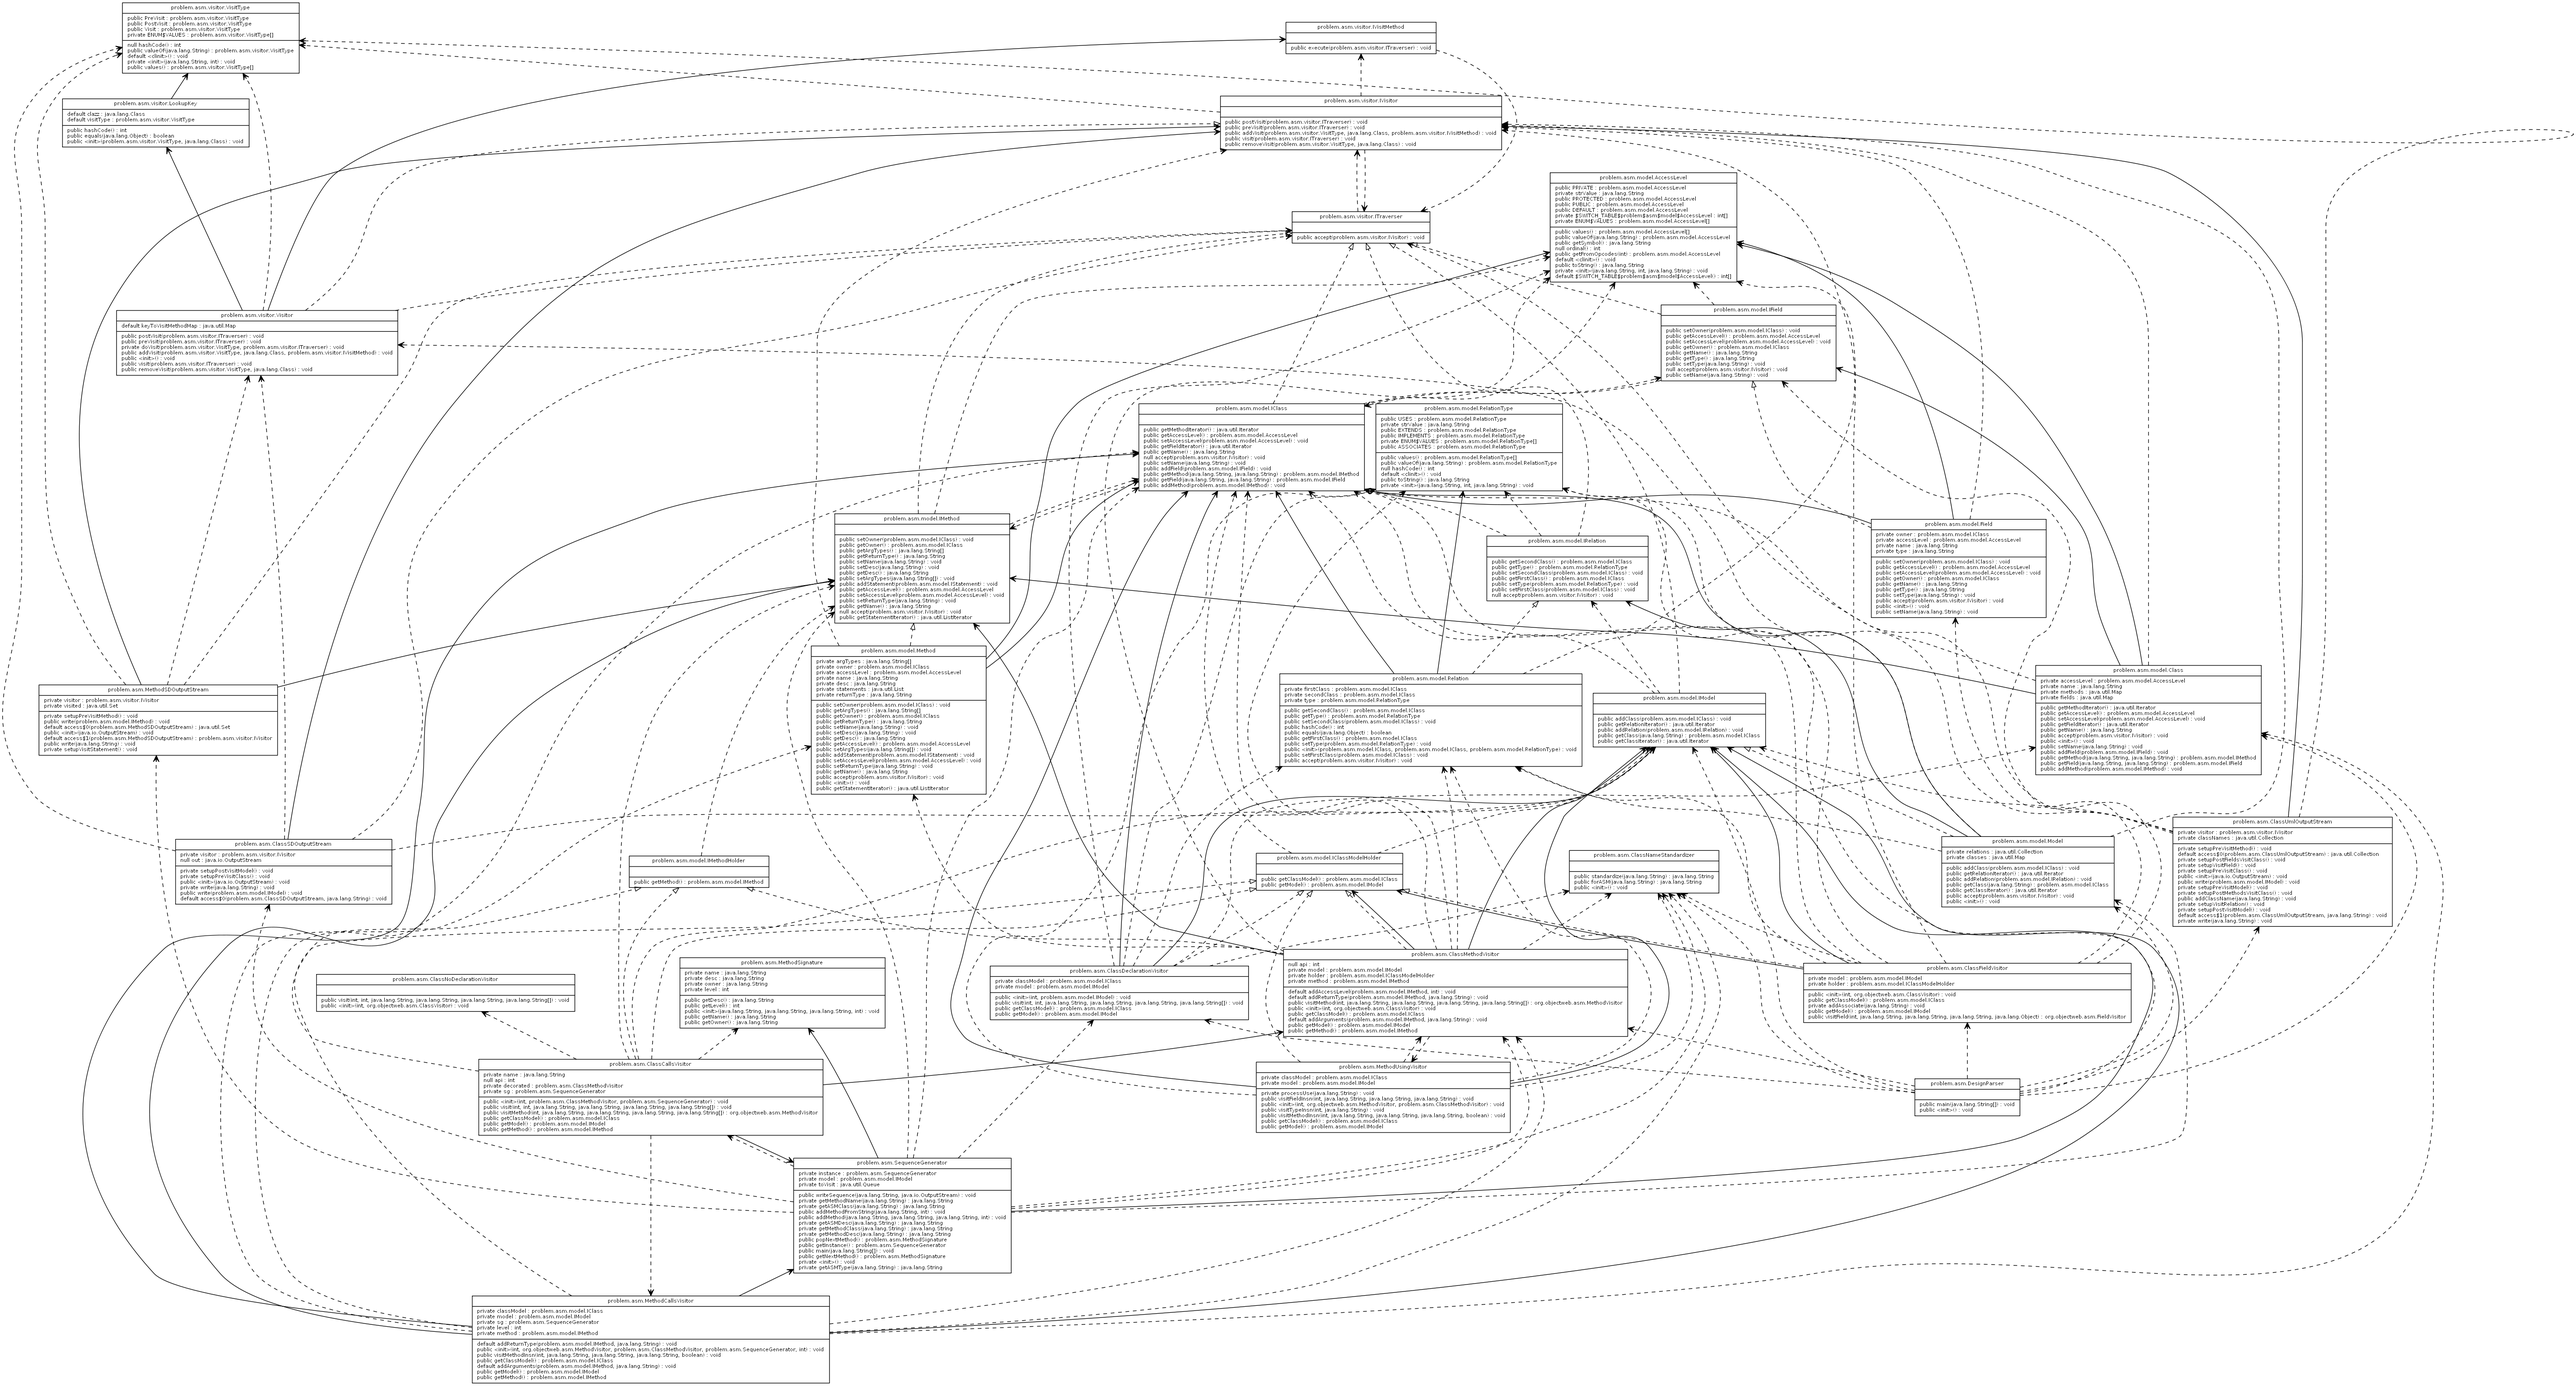
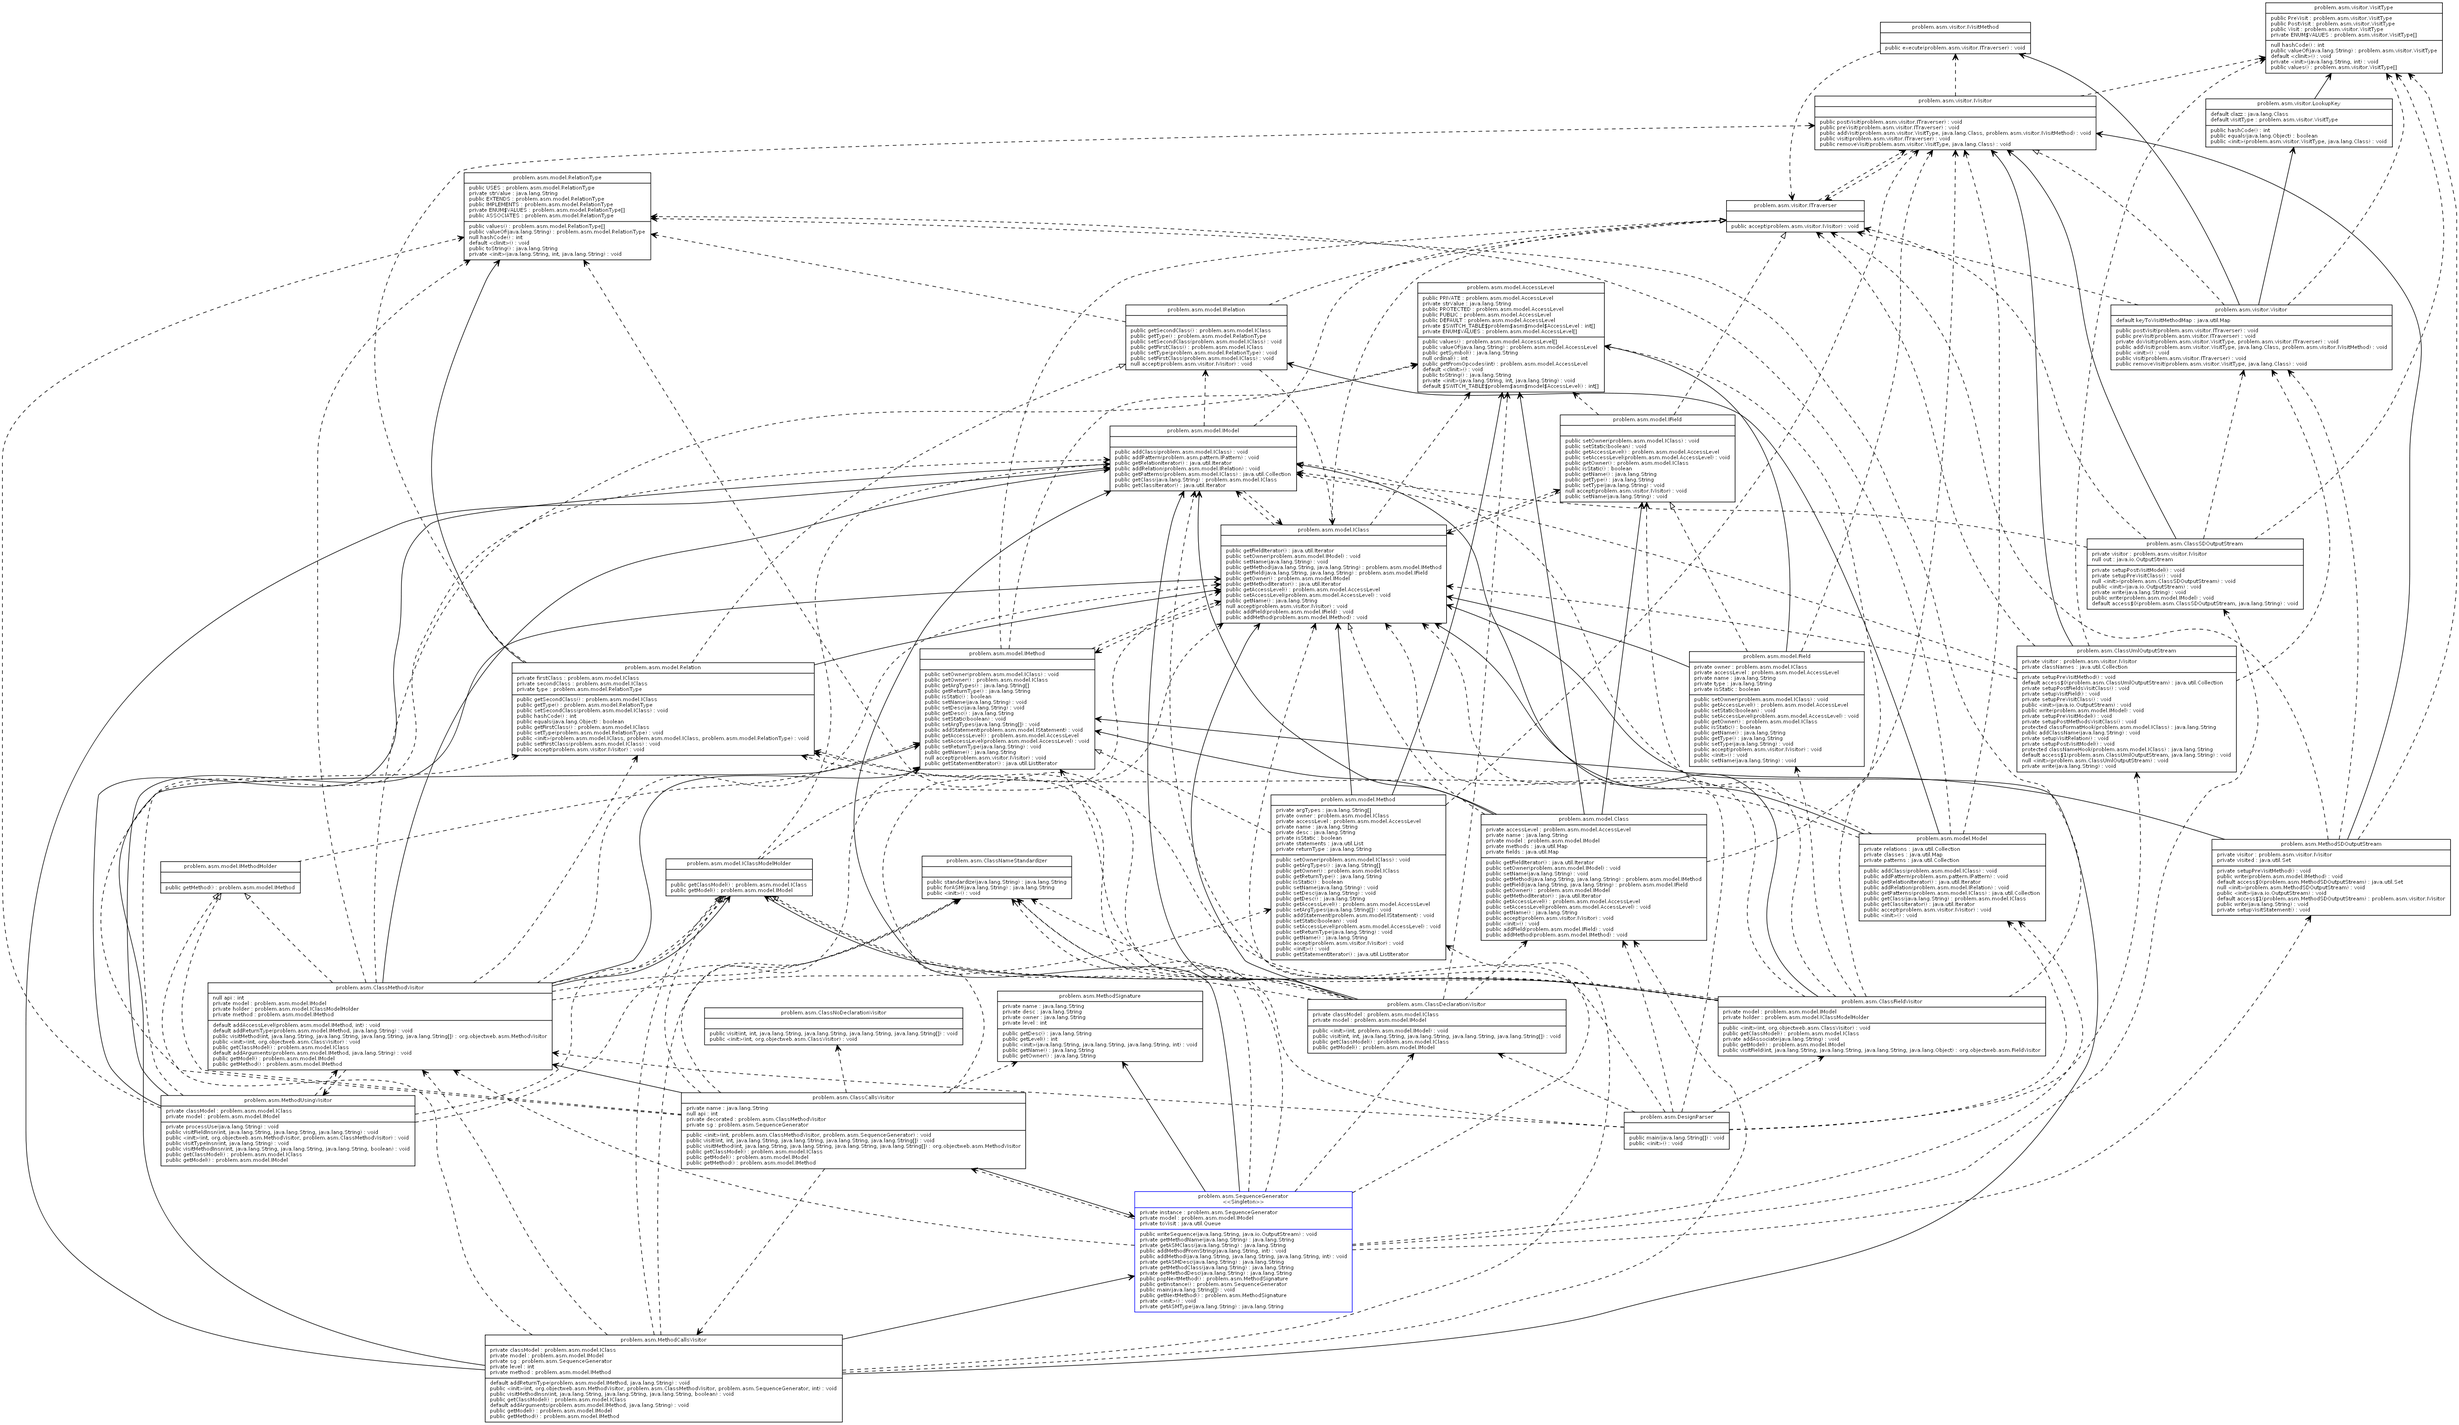
Now detects and annotates singletons in the class diagram

diff --git a/AsmAnalyzer/src/problem/asm/ClassUmlOutputStream.java b/AsmAnalyzer/src/problem/asm/ClassUmlOutputStream.java
@@ -62,7 +62,7 @@ public class ClassUmlOutputStream extends FilterOutputStream {
 				if (!ClassUmlOutputStream.this.classNames.contains(c.getName()))
 					return;
 				
-				String line = String.format("%s [\n\tlabel = \"{%s|", ClassNameStandardizer.standardize(c.getName()), ClassNameStandardizer.standardize(c.getName()).replaceAll("_", "."));
+				String line = String.format("%s [\n\tlabel = \"{%s%s|", ClassNameStandardizer.standardize(c.getName()), ClassNameStandardizer.standardize(c.getName()).replaceAll("_", "."), ClassUmlOutputStream.this.classNameHook(c));
 				write(line);
 			}
 		};
@@ -89,13 +89,13 @@ public class ClassUmlOutputStream extends FilterOutputStream {
 				IClass c = (IClass)t;
 				if (!ClassUmlOutputStream.this.classNames.contains(c.getName()))
 					return;
-				String line = String.format("}\"\n]\n");
+				String line = String.format("}\"\n%s]\n", ClassUmlOutputStream.this.classFormatHook(c));
 				write(line);
 			}
 		};
 		this.visitor.addVisit(VisitType.PostVisit, IClass.class, command);
 	}
-	
+
 	private void setupPreVisitMethod() {
 		IVisitMethod command = new IVisitMethod() {
 			@Override
@@ -191,4 +191,13 @@ public class ClassUmlOutputStream extends FilterOutputStream {
 		};
 		this.visitor.addVisit(VisitType.PostVisit, IModel.class, command);
 	}
+	
+	protected String classNameHook(IClass c) {
+		return "";
+	}
+	
+	protected String classFormatHook(IClass c) {
+		return "";
+	}
+	
 }

diff --git a/AsmAnalyzer/src/problem/asm/AnnotatedUmlOutputStream.java b/AsmAnalyzer/src/problem/asm/AnnotatedUmlOutputStream.java
@@ -1,0 +1,41 @@
+package problem.asm;
+
+import java.io.IOException;
+import java.io.OutputStream;
+
+import problem.asm.model.IClass;
+import problem.asm.pattern.IPattern;
+
+public class AnnotatedUmlOutputStream extends ClassUmlOutputStream {
+	
+	ClassUmlOutputStream decorated;
+
+	public AnnotatedUmlOutputStream(ClassUmlOutputStream out) throws IOException {
+		super(out);
+		this.decorated = out;
+	}
+
+	@Override
+	protected String classNameHook(IClass c) {
+		String out = this.decorated.classNameHook(c);
+		System.out.println(c.getName());
+		for (IPattern patt : c.getOwner().getPatterns(c)) {
+			out += "\\n\\<\\<" + patt.getName() + "\\>\\>";
+		}
+		return out;
+	}
+
+	@Override
+	protected String classFormatHook(IClass c) {
+		String out = this.decorated.classFormatHook(c);
+		String colorString = "";
+		for (IPattern patt : c.getOwner().getPatterns(c)) {
+			colorString = String.format(", color=\"#%02x%02x%02x\"", 
+					patt.getColor().getRed(),
+					patt.getColor().getGreen(),
+					patt.getColor().getBlue());
+		}
+		return out + colorString;
+	}
+
+}

diff --git a/AsmAnalyzer/src/problem/asm/DesignParser.java b/AsmAnalyzer/src/problem/asm/DesignParser.java
@@ -28,6 +28,7 @@ public class DesignParser {
 			//System.out.println("Loading class: "+className);
 			IClass classModel = new Class();
 			classModel.setName(ClassNameStandardizer.standardize(className));
+			classModel.setOwner(model);
 			model.addClass(classModel);
 		}
 		
@@ -57,10 +58,12 @@ public class DesignParser {
 		sd.detect(model);
 		
 		ClassUmlOutputStream classUmlOutputStream = new ClassUmlOutputStream(System.out);
+		ClassUmlOutputStream annotatedUmlOutputStream = new AnnotatedUmlOutputStream(classUmlOutputStream);
+		
 		for (String className : args) {
-			classUmlOutputStream.addClassName(ClassNameStandardizer.standardize(className));
+			annotatedUmlOutputStream.addClassName(ClassNameStandardizer.standardize(className));
 		}
-		//classUmlOutputStream.write(model);
+		annotatedUmlOutputStream.write(model);
 		
 	}
 }

diff --git a/AsmAnalyzer/src/problem/asm/SingletonDetector.java b/AsmAnalyzer/src/problem/asm/SingletonDetector.java
@@ -81,7 +81,6 @@ public class SingletonDetector {
 					Pattern pattern = new SingletonPattern();
 					pattern.addClass(SingletonDetector.this.currentClass);
 					SingletonDetector.this.model.addPattern(pattern);
-					System.out.println("SINGLETON WOOP WOOP WOOP "+currentClass.getName());
 				}
 			}
 		};
